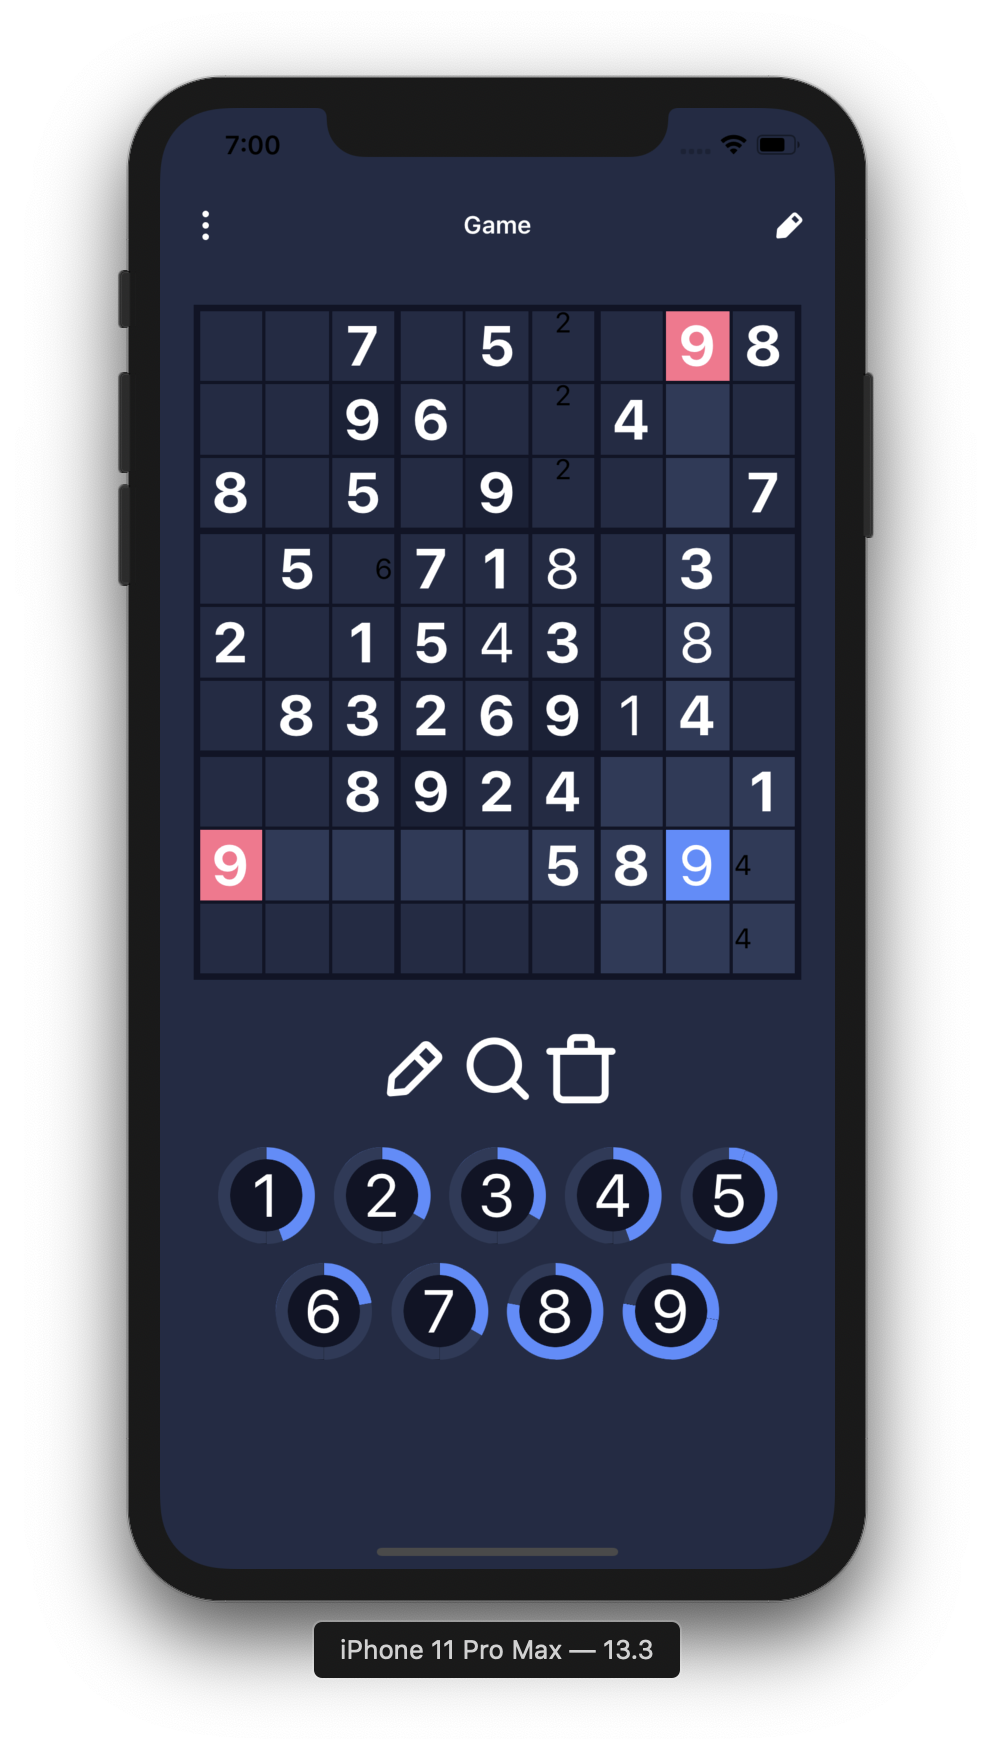
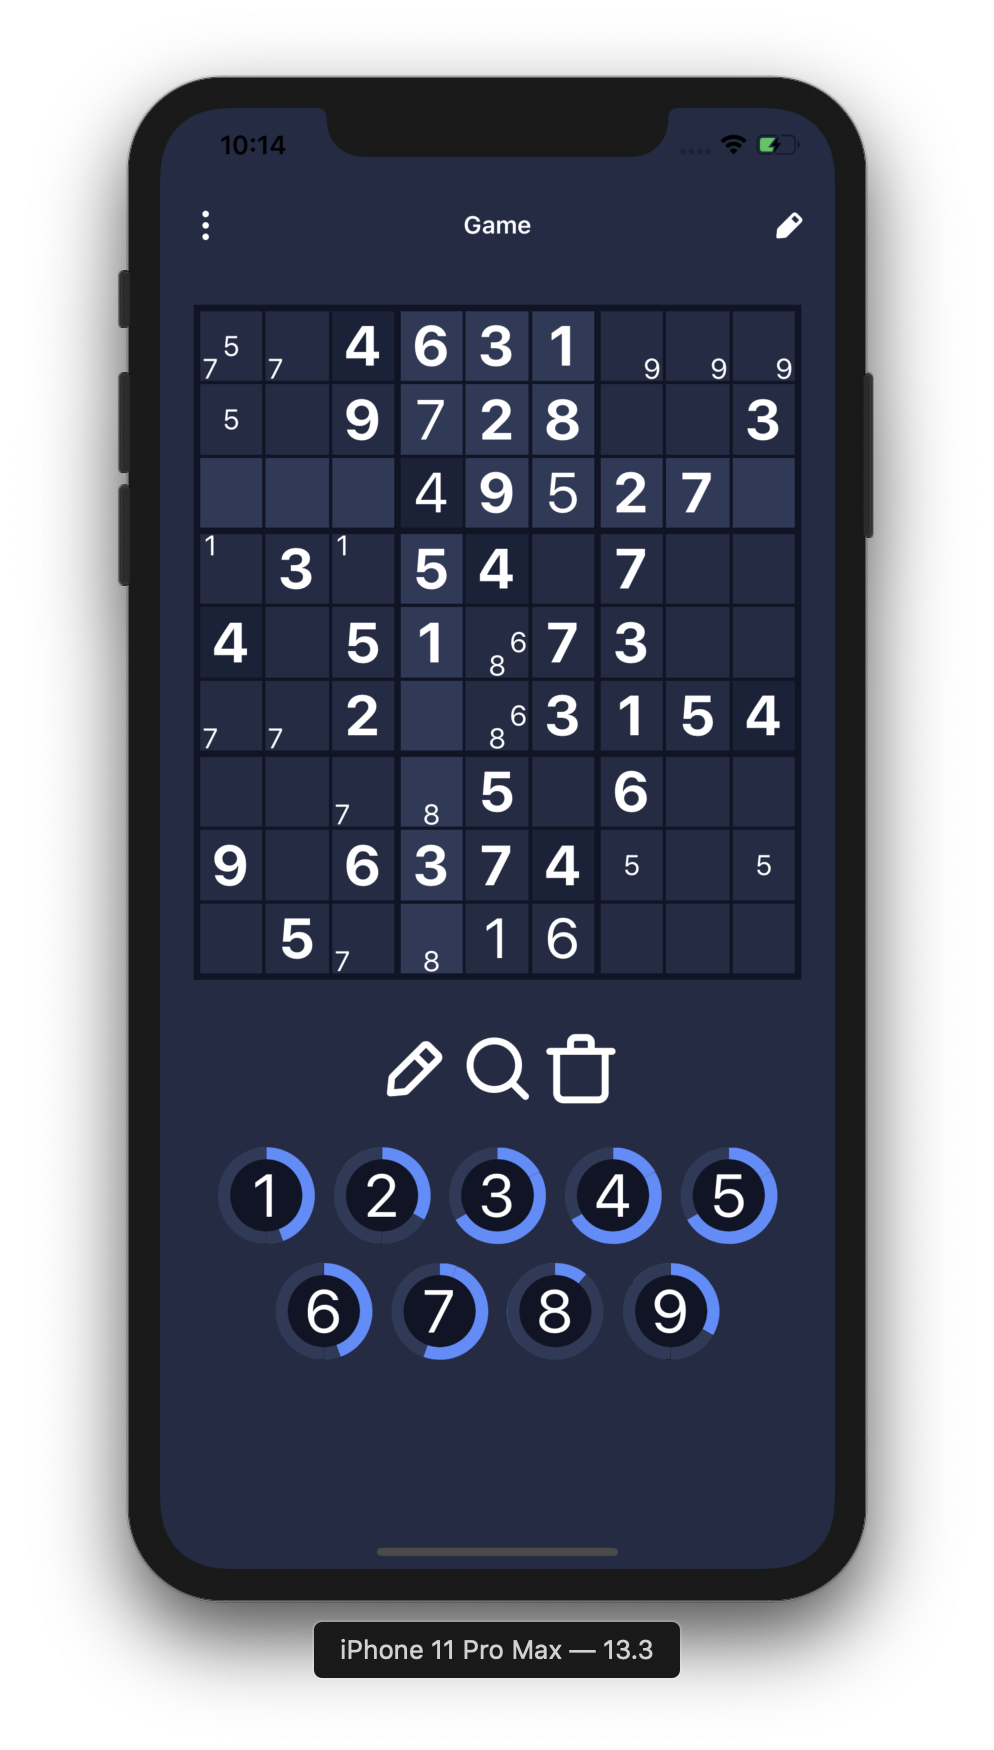
Fix text colors

diff --git a/src/components/Sudoku/Notes.tsx b/src/components/Sudoku/Notes.tsx
@@ -1,56 +1,59 @@
 import React, { useContext } from "react";
 import { Text, View } from "react-native";
 import { SettingsContext } from "./settings";
+import { ColorsContext } from "./colors";
 import { Grid, Row, Col } from "react-native-easy-grid";
 
 interface PropTypes {
-    notes: Sudoku.Cell["notes"];
-    size: number;
+  notes: Sudoku.Cell["notes"];
+  size: number;
 }
 
-export default function Notes({ notes, size }: PropTypes) {
-    const settings = useContext(SettingsContext);
+const Notes: React.FC<PropTypes> = ({ notes, size }) => {
+  const settings = useContext(SettingsContext);
+  const colors = useContext(ColorsContext);
 
-    const fontSize = (0.75 / 2) * (size / settings.degree);
+  const fontSize = (0.75 / 2) * (size / settings.degree);
 
-    const unit = Math.sqrt(settings.degree);
-    const notesGrid = [...Array(unit)].map((_, r) =>
-        [...Array(unit)].map((_, c) => notes[r * unit + c + 1])
-    );
+  const unit = Math.sqrt(settings.degree);
+  const notesGrid = [...Array(unit)].map((_, r) =>
+    [...Array(unit)].map((_, c) => notes[r * unit + c + 1])
+  );
 
-    return (
-        <View style={{ height: "100%", width: "100%", margin: 0, padding: 0 }}>
-            <Grid>
-                {notesGrid.map((row, r) => (
-                    <Row key={r}>
-                        {row.map((isNote, c) => (
-                            <Col key={c}>
-                                <View
-                                    style={{
-                                        flex: 1,
-                                        alignItems: "center",
-                                        justifyContent: "center"
-                                    }}
-                                >
-                                    {isNote ? (
-                                        <Text
-                                            allowFontScaling={false}
-                                            style={{
-                                                fontSize,
-                                                lineHeight: fontSize
-                                            }}
-                                        >
-                                            {settings.dotNotes
-                                                ? "•"
-                                                : r * unit + c + 1}
-                                        </Text>
-                                    ) : null}
-                                </View>
-                            </Col>
-                        ))}
-                    </Row>
-                ))}
-            </Grid>
-        </View>
-    );
-}
+  return (
+    <View style={{ height: "100%", width: "100%", margin: 0, padding: 0 }}>
+      <Grid>
+        {notesGrid.map((row, r) => (
+          <Row key={r}>
+            {row.map((isNote, c) => (
+              <Col key={c}>
+                <View
+                  style={{
+                    flex: 1,
+                    alignItems: "center",
+                    justifyContent: "center"
+                  }}
+                >
+                  {isNote ? (
+                    <Text
+                      allowFontScaling={false}
+                      style={{
+                        fontSize,
+                        color: colors.text,
+                        lineHeight: fontSize
+                      }}
+                    >
+                      {settings.dotNotes ? "•" : r * unit + c + 1}
+                    </Text>
+                  ) : null}
+                </View>
+              </Col>
+            ))}
+          </Row>
+        ))}
+      </Grid>
+    </View>
+  );
+};
+
+export default Notes;

diff --git a/src/components/Sudoku/NumberButton.tsx b/src/components/Sudoku/NumberButton.tsx
@@ -11,19 +11,22 @@ interface PropTypes {
   onPress: (event: GestureResponderEvent) => void;
 }
 
-export default function NumberButton({
+const NumberButton: React.FC<PropTypes> = ({
   number,
   percent,
   radius,
   notesMode,
   onPress
-}: PropTypes) {
+}) => {
   const colors = useContext(ColorsContext);
 
   return (
     <TouchableOpacity onPress={onPress} style={{ margin: radius / 5 }}>
       {notesMode ? (
-        <Text allowFontScaling={false} style={{ fontSize: radius * 1.5 }}>
+        <Text
+          allowFontScaling={false}
+          style={{ fontSize: radius * 1.5, color: colors.text }}
+        >
           {number}
         </Text>
       ) : (
@@ -52,4 +55,6 @@ export default function NumberButton({
       )}
     </TouchableOpacity>
   );
-}
+};
+
+export default NumberButton;
